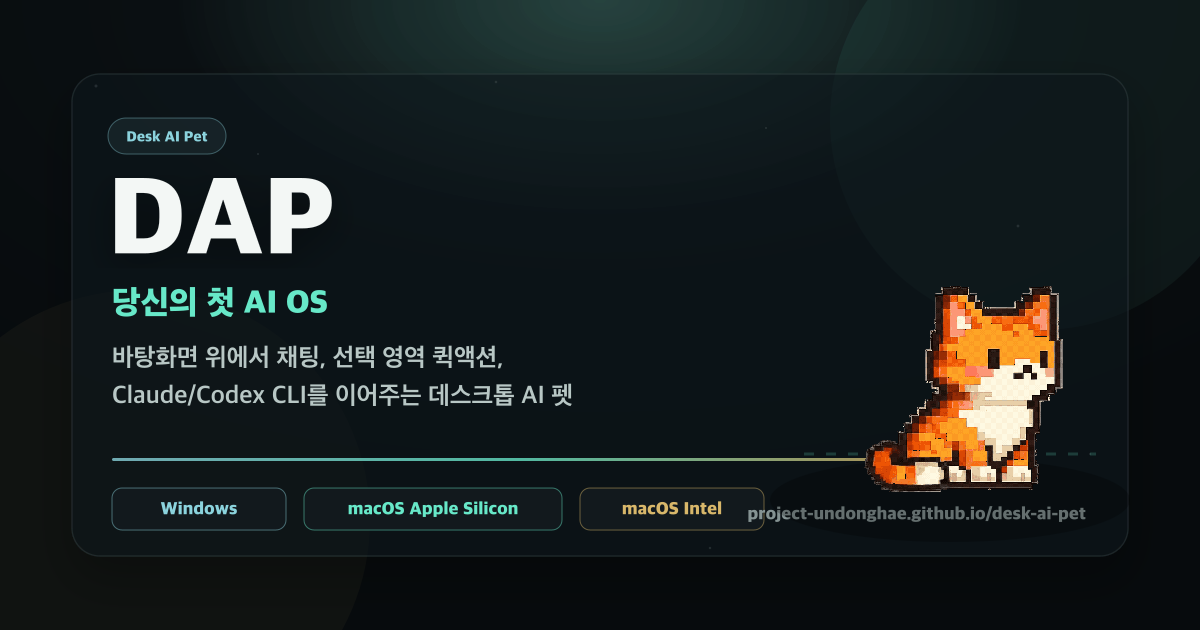
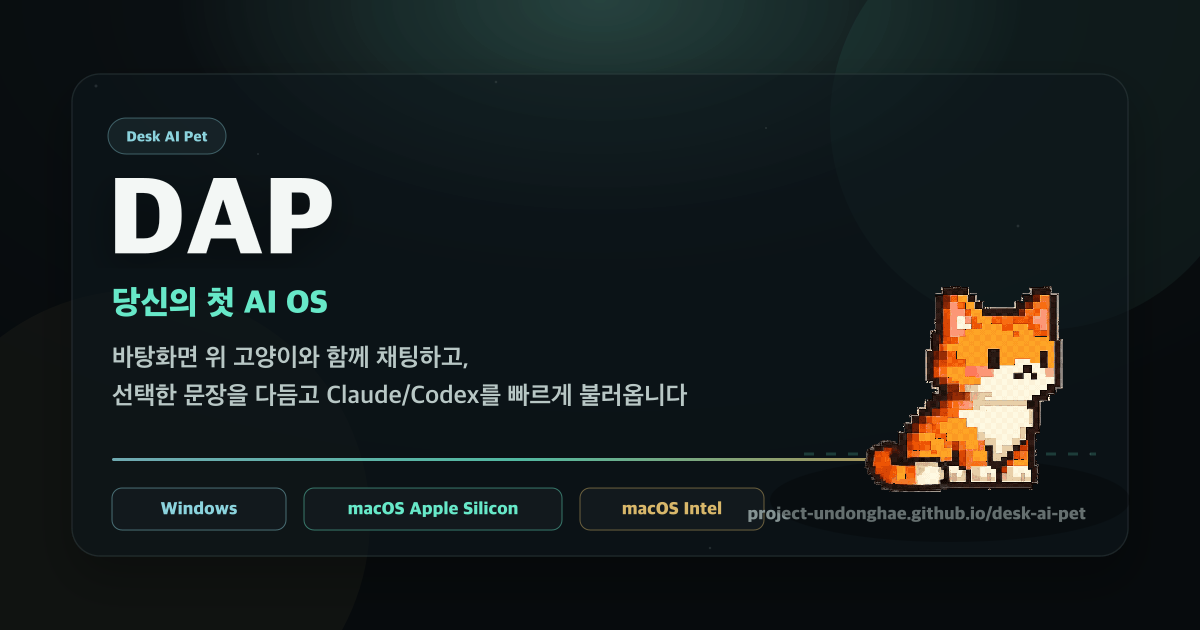
copy: make AI OS messaging more natural

Changed region(s): [[0.0925, 0.5429, 0.5858, 0.6635]]

diff --git a/index.html b/index.html
@@ -11,8 +11,8 @@
   <!-- End Google Tag Manager -->
   <meta name="viewport" content="width=device-width, initial-scale=1.0" />
   <title>DAP (Desk AI Pet) - 당신의 첫 AI OS</title>
-  <meta name="description" content="DAP은 바탕화면에 상주하는 데스크톱 AI 펫이자 Personal AI OS layer입니다. Electron 기반 앱에서 Spotlight, 채팅, 선택 영역 퀵액션, 유저 메모리, Claude/Codex CLI 연결을 제공합니다." />
-  <meta name="keywords" content="DAP, Desk AI Pet, 데스크톱 AI 펫, AI OS, Personal AI OS, desktop AI companion, Claude CLI, Codex CLI, Spotlight, 선택 영역 퀵액션, Oshi Desk" />
+  <meta name="description" content="DAP은 바탕화면 위 고양이로 시작하는 AI OS입니다. 채팅하고, 선택한 문장을 요약하거나 다듬고, Claude/Codex를 빠르게 불러올 수 있습니다." />
+  <meta name="keywords" content="DAP, Desk AI Pet, AI OS, 데스크톱 AI 펫, desktop AI pet, desktop AI companion, Claude CLI, Codex CLI, Spotlight, 선택 영역 퀵액션, Oshi Desk" />
   <meta name="robots" content="index,follow,max-image-preview:large" />
   <meta name="author" content="Project Undonghae" />
   <link rel="canonical" href="https://project-undonghae.github.io/desk-ai-pet/" />
@@ -23,7 +23,7 @@
   <meta property="og:site_name" content="Desk AI Pet" />
   <meta property="og:locale" content="ko_KR" />
   <meta property="og:title" content="DAP - 당신의 첫 AI OS" />
-  <meta property="og:description" content="바탕화면 위 AI 펫이 채팅, 선택 영역 퀵액션, Spotlight, Claude/Codex CLI를 이어줍니다. Windows와 macOS 설치 파일을 제공합니다." />
+  <meta property="og:description" content="바탕화면 위 고양이로 시작하는 AI OS. 채팅하고, 선택한 문장을 바로 요약하거나 다듬고, Claude/Codex를 빠르게 불러옵니다." />
   <meta property="og:url" content="https://project-undonghae.github.io/desk-ai-pet/" />
   <meta property="og:image" content="https://project-undonghae.github.io/desk-ai-pet/og-dap-20260703.png" />
   <meta property="og:image:width" content="1200" />
@@ -31,7 +31,7 @@
   <meta property="og:image:alt" content="DAP Desk AI Pet - 다크 teal 배경 위 고양이 캐릭터와 Windows, macOS 다운로드 플랫폼 안내" />
   <meta name="twitter:card" content="summary_large_image" />
   <meta name="twitter:title" content="DAP - 당신의 첫 AI OS" />
-  <meta name="twitter:description" content="데스크톱 AI 펫이 Spotlight, 채팅, 선택 영역 퀵액션, Claude/Codex CLI를 연결합니다. Windows/macOS 다운로드 제공." />
+  <meta name="twitter:description" content="바탕화면 위 고양이로 시작하는 AI OS. 채팅하고, 선택한 문장을 요약하거나 다듬고, Claude/Codex를 빠르게 불러옵니다." />
   <meta name="twitter:image" content="https://project-undonghae.github.io/desk-ai-pet/og-dap-20260703.png" />
   <link rel="icon" href="favicon.ico" sizes="any" />
   <link rel="icon" href="favicon-32.png" type="image/png" sizes="32x32" />
@@ -47,7 +47,7 @@
     "alternateName": "DAP",
     "applicationCategory": "UtilitiesApplication",
     "operatingSystem": "Windows, macOS",
-    "softwareVersion": "Electron migration branch",
+    "softwareVersion": "Latest public release",
     "url": "https://project-undonghae.github.io/desk-ai-pet/",
     "license": "https://opensource.org/licenses/MIT",
     "isAccessibleForFree": true,
@@ -55,7 +55,7 @@
       "@type": "Organization",
       "name": "Project Undonghae"
     },
-    "description": "DAP은 바탕화면에 상주하는 데스크톱 AI 펫이자 Personal AI OS layer입니다. Electron 기반 앱에서 Spotlight, 채팅, 선택 영역 퀵액션, 유저 메모리, Claude/Codex CLI 연결을 제공합니다.",
+    "description": "DAP은 바탕화면 위 고양이로 시작하는 AI OS입니다. 채팅하고, 선택한 문장을 요약하거나 다듬고, Claude/Codex를 빠르게 불러올 수 있습니다.",
     "sameAs": [
       "https://www.oshidesk.com/en/"
     ],
@@ -76,7 +76,7 @@
         "name": "DAP은 무엇인가요?",
         "acceptedAnswer": {
           "@type": "Answer",
-          "text": "DAP(Desk AI Pet)은 Windows와 macOS 바탕화면에 상주하는 데스크톱 AI 펫이자 Personal AI OS layer입니다."
+          "text": "DAP(Desk AI Pet)은 Windows와 macOS 바탕화면 위 고양이로 시작하는 AI OS입니다."
         }
       },
       {
@@ -84,7 +84,7 @@
         "name": "어떤 AI를 연결할 수 있나요?",
         "acceptedAnswer": {
           "@type": "Answer",
-          "text": "현재 Electron 앱은 사용자가 이미 로그인한 claude 또는 codex CLI를 headless로 호출합니다. API Key 입력 방식은 현재 제품 설명에서 제외됩니다."
+          "text": "DAP은 사용자가 이미 로그인한 Claude 또는 Codex를 연결해 채팅과 선택 영역 액션에 활용합니다. 별도의 API Key 입력 없이 시작할 수 있습니다."
         }
       },
       {
@@ -136,9 +136,9 @@
   <!-- HERO OVERLAY: 타이틀 + 다운로드 CTA -->
   <div class="hero-overlay">
     <div class="hero-overlay-inner z">
-      <p class="hero-eyebrow" data-i18n="hero_eyebrow">Personal AI OS for desktop</p>
+      <p class="hero-eyebrow" data-i18n="hero_eyebrow">YOUR FIRST AI OS</p>
       <div class="logo"><span>DAP</span><small>Desk AI Pet</small></div>
-      <p class="hero-tagline-text" data-i18n="hero_tagline">바탕화면에 상주하는 AI 펫이 채팅, 선택 영역 퀵액션, Claude/Codex CLI를 이어줍니다</p>
+      <p class="hero-tagline-text" data-i18n="hero_tagline">고양이와 함께 채팅하고, 선택한 문장을 바로 요약하거나 다듬어보세요</p>
       <div class="hero-dl-row">
         <a
           class="btn btn-w"
@@ -165,7 +165,7 @@
           <span data-i18n="download_mac_intel">macOS Intel 다운로드</span>
         </a>
       </div>
-      <p class="dl-subtitle-hero" data-i18n="download_subtitle">Windows/macOS Electron 앱 · 최신 설치 파일 제공</p>
+      <p class="dl-subtitle-hero" data-i18n="download_subtitle">Windows와 macOS용 설치 파일을 제공합니다</p>
     </div>
   </div>
 
@@ -183,9 +183,9 @@
   <p class="section-label compact" data-i18n="summary_label">DAP overview</p>
   <div class="summary-grid">
     <div>
-      <h1 id="summary-title" data-i18n="summary_title">DAP은 바탕화면에 머무는 Personal AI OS layer입니다</h1>
+      <h1 id="summary-title" data-i18n="summary_title">DAP은 바탕화면 위 고양이로 시작하는 AI OS입니다</h1>
       <p data-i18n="summary_desc">
-        DAP는 투명 오버레이 펫, Spotlight 커맨드 바, LightChat, 선택 영역 퀵액션, 유저 메모리를 하나로 묶습니다. 현재 Electron 앱은 API Key 입력 대신 사용자가 로그인한 Claude/Codex CLI를 활용하며, 작업 흐름을 방해하지 않는 조용한 데스크톱 레이어를 지향합니다.
+        DAP은 화면 위에 작은 고양이로 머물며, 채팅과 빠른 실행창, 선택 영역 액션을 한곳에 모읍니다. 문장을 선택해 요약하거나 다듬고, 필요할 때 Claude/Codex를 바로 불러올 수 있어요.
       </p>
     </div>
     <dl class="facts" aria-label="Desk AI Pet facts">
@@ -194,12 +194,12 @@
         <dd data-i18n="fact_platform_value">Windows 11 · macOS Apple Silicon · macOS Intel</dd>
       </div>
       <div>
-        <dt data-i18n="fact_ai_label">AI 연결</dt>
-        <dd data-i18n="fact_ai_value">Claude CLI · Codex CLI 구독 로그인</dd>
+        <dt data-i18n="fact_ai_label">연결</dt>
+        <dd data-i18n="fact_ai_value">로그인된 Claude · Codex 사용</dd>
       </div>
       <div>
-        <dt data-i18n="fact_license_label">런타임</dt>
-        <dd data-i18n="fact_license_value">Electron · TypeScript · Local-first settings</dd>
+        <dt data-i18n="fact_license_label">작업 방식</dt>
+        <dd data-i18n="fact_license_value">채팅 · 빠른 실행 · 선택 영역 액션</dd>
       </div>
     </dl>
   </div>
@@ -211,13 +211,13 @@
   <img class="section-cat section-cat-features" src="sprites/walk_2.png" alt="" aria-hidden="true" />
   <div class="card reveal">
     <div class="card-icon">CMD</div>
-    <h3 data-i18n="f1_title">SPOTLIGHT</h3>
-    <p data-i18n="f1_desc">Ctrl+Shift+Space로 어디서든 커맨드 바를 열고, 현재 흐름을 끊지 않고 DAP에게 요청합니다.</p>
+    <h3 data-i18n="f1_title">빠른 실행</h3>
+    <p data-i18n="f1_desc">Ctrl+Shift+Space로 어디서든 실행창을 열고, 현재 흐름을 끊지 않고 DAP에게 요청합니다.</p>
   </div>
   <div class="card reveal">
-    <div class="card-icon">CLI</div>
-    <h3 data-i18n="f2_title">SUBSCRIPTION CLI</h3>
-    <p data-i18n="f2_desc">API Key 입력 없이 로그인된 Claude 또는 Codex CLI를 headless로 호출해 기존 구독을 활용합니다.</p>
+    <div class="card-icon">AI</div>
+    <h3 data-i18n="f2_title">Claude/Codex 연결</h3>
+    <p data-i18n="f2_desc">이미 로그인한 Claude 또는 Codex를 연결해, 따로 API Key를 입력하지 않고 바로 사용할 수 있습니다.</p>
   </div>
   <div class="card reveal">
     <div class="card-icon">SEL</div>
@@ -246,15 +246,15 @@
     <div class="step reveal">
       <span class="step-num">02</span>
       <div>
-        <strong data-i18n="s2_title">구독 CLI 연결</strong>
-        <p data-i18n="s2_desc">온보딩 또는 설정에서 Claude/Codex를 선택합니다. 터미널의 claude login 또는 codex login 상태를 사용합니다.</p>
+        <strong data-i18n="s2_title">Claude/Codex 연결</strong>
+        <p data-i18n="s2_desc">온보딩 또는 설정에서 Claude/Codex를 선택합니다. 이미 로그인된 계정을 이어서 사용할 수 있습니다.</p>
       </div>
     </div>
     <div class="step reveal">
       <span class="step-num">03</span>
       <div>
         <strong data-i18n="s3_title">단축키로 즉시 호출</strong>
-        <p data-i18n="s3_desc"><code>Ctrl+Shift+Space</code>로 Spotlight, <code>Ctrl+Alt+C</code>로 채팅창을 열고 선택 영역 퀵액션을 실행합니다.</p>
+        <p data-i18n="s3_desc"><code>Ctrl+Shift+Space</code>로 빠른 실행창, <code>Ctrl+Alt+C</code>로 채팅창을 열고 선택 영역 액션을 실행합니다.</p>
       </div>
     </div>
   </div>
@@ -267,22 +267,22 @@
   <div class="faq-list">
     <details open>
       <summary data-i18n="q1_title">DAP은 무엇인가요?</summary>
-      <p data-i18n="q1_desc">DAP(Desk AI Pet)은 Windows/macOS 바탕화면에 상주하는 데스크톱 AI 펫이자 Personal AI OS layer입니다.</p>
+      <p data-i18n="q1_desc">DAP(Desk AI Pet)은 Windows/macOS 바탕화면 위에 머무는 데스크톱 AI 펫입니다.</p>
     </details>
     <details>
       <summary data-i18n="q2_title">Oshi Desk와 어떤 관계인가요?</summary>
       <p data-i18n="q2_desc">DAP는 AI와 데스크톱 펫을 결합한 기반 프로젝트입니다. Oshi Desk는 이 흐름에서 시작된 캐릭터 중심 데스크톱 펫 서비스입니다.</p>
     </details>
     <details>
-      <summary data-i18n="q3_title">API Key가 필요한가요?</summary>
-      <p data-i18n="q3_desc">현재 Electron 앱의 기본 흐름은 API Key 입력이 아니라 로그인된 Claude/Codex CLI를 사용하는 구독 연결입니다.</p>
+      <summary data-i18n="q3_title">별도 설정이 많이 필요한가요?</summary>
+      <p data-i18n="q3_desc">기본 흐름은 별도 API Key 입력이 아니라, 이미 로그인한 Claude/Codex를 연결해 사용하는 방식입니다.</p>
     </details>
   </div>
 </section>
 </main>
 
 <footer class="z">
-  <span data-i18n="footer">Built with Electron · TypeScript · Windows &amp; macOS · MIT License</span>
+  <span data-i18n="footer">DAP · Desk AI Pet · Windows &amp; macOS</span>
 </footer>
 
 <script type="module">
@@ -322,30 +322,30 @@ let textPopReady = false;
 const I18N = {
   ko: {
     meta_title: "DAP (Desk AI Pet) - 당신의 첫 AI OS",
-    meta_desc: "DAP은 바탕화면에 상주하는 데스크톱 AI 펫이자 Personal AI OS layer입니다. Electron 기반 앱에서 Spotlight, 채팅, 선택 영역 퀵액션, 유저 메모리, Claude/Codex CLI 연결을 제공합니다.",
-    hero_eyebrow: "Personal AI OS for desktop",
+    meta_desc: "DAP은 바탕화면 위 고양이로 시작하는 AI OS입니다. 채팅하고, 선택한 문장을 요약하거나 다듬고, Claude/Codex를 빠르게 불러올 수 있습니다.",
+    hero_eyebrow: "YOUR FIRST AI OS",
     hero_copy: "당신의 첫 AI OS\n바탕화면 위 고양이가 채팅과 작업 흐름을 이어줍니다",
-    hero_tagline: "바탕화면에 상주하는 AI 펫이 채팅, 선택 영역 퀵액션, Claude/Codex CLI를 이어줍니다",
+    hero_tagline: "고양이와 함께 채팅하고, 선택한 문장을 바로 요약하거나 다듬어보세요",
     stage_title: "클릭해서 반응 보기",
     download_label: "DOWNLOAD",
-    download_subtitle: "Windows/macOS Electron 앱 · 최신 설치 파일 제공",
+    download_subtitle: "Windows와 macOS용 설치 파일을 제공합니다",
     download_win: "Windows 다운로드",
     download_mac_arm: "macOS Apple Silicon 다운로드",
     download_mac_intel: "macOS Intel 다운로드",
     summary_label: "DAP overview",
-    summary_title: "DAP은 바탕화면에 머무는 Personal AI OS layer입니다",
-    summary_desc: "DAP는 투명 오버레이 펫, Spotlight 커맨드 바, LightChat, 선택 영역 퀵액션, 유저 메모리를 하나로 묶습니다. 현재 Electron 앱은 API Key 입력 대신 사용자가 로그인한 Claude/Codex CLI를 활용하며, 작업 흐름을 방해하지 않는 조용한 데스크톱 레이어를 지향합니다.",
+    summary_title: "DAP은 바탕화면 위 고양이로 시작하는 AI OS입니다",
+    summary_desc: "DAP은 화면 위에 작은 고양이로 머물며, 채팅과 빠른 실행창, 선택 영역 액션을 한곳에 모읍니다. 문장을 선택해 요약하거나 다듬고, 필요할 때 Claude/Codex를 바로 불러올 수 있어요.",
     fact_platform_label: "지원 플랫폼",
     fact_platform_value: "Windows 11 · macOS Apple Silicon · macOS Intel",
-    fact_ai_label: "AI 연결",
-    fact_ai_value: "Claude CLI · Codex CLI 구독 로그인",
-    fact_license_label: "런타임",
-    fact_license_value: "Electron · TypeScript · Local-first settings",
+    fact_ai_label: "연결",
+    fact_ai_value: "로그인된 Claude · Codex 사용",
+    fact_license_label: "작업 방식",
+    fact_license_value: "채팅 · 빠른 실행 · 선택 영역 액션",
     features_label: "Core features",
-    f1_title: "Spotlight",
-    f1_desc: "Ctrl+Shift+Space로 어디서든 커맨드 바를 열고, 현재 흐름을 끊지 않고 DAP에게 요청합니다.",
-    f2_title: "Subscription CLI",
-    f2_desc: "API Key 입력 없이 로그인된 Claude 또는 Codex CLI를 headless로 호출해 기존 구독을 활용합니다.",
+    f1_title: "빠른 실행",
+    f1_desc: "Ctrl+Shift+Space로 어디서든 실행창을 열고, 현재 흐름을 끊지 않고 DAP에게 요청합니다.",
+    f2_title: "Claude/Codex 연결",
+    f2_desc: "이미 로그인한 Claude 또는 Codex를 연결해, 따로 API Key를 입력하지 않고 바로 사용할 수 있습니다.",
     f3_title: "Quick actions",
     f3_desc: "텍스트를 선택하거나 복사하면 번역, 요약, 다듬기, 설명 같은 액션을 커서 근처에서 바로 실행합니다.",
     f4_title: "Pet interface",
@@ -353,48 +353,48 @@ const I18N = {
     how_title: "Getting started",
     s1_title: "다운로드 & 설치",
     s1_desc: "Windows, macOS Apple Silicon, macOS Intel 설치 파일 중 현재 환경에 맞는 파일을 내려받아 설치합니다.",
-    s2_title: "구독 CLI 연결",
-    s2_desc: "온보딩 또는 설정에서 Claude/Codex를 선택합니다. 터미널의 claude login 또는 codex login 상태를 사용합니다.",
+    s2_title: "Claude/Codex 연결",
+    s2_desc: "온보딩 또는 설정에서 Claude/Codex를 선택합니다. 이미 로그인된 계정을 이어서 사용할 수 있습니다.",
     s3_title: "단축키로 즉시 호출",
-    s3_desc: "<code>Ctrl+Shift+Space</code>로 Spotlight, <code>Ctrl+Alt+C</code>로 채팅창을 열고 선택 영역 퀵액션을 실행합니다.",
+    s3_desc: "<code>Ctrl+Shift+Space</code>로 빠른 실행창, <code>Ctrl+Alt+C</code>로 채팅창을 열고 선택 영역 액션을 실행합니다.",
     faq_title: "자주 묻는 질문",
     q1_title: "DAP은 무엇인가요?",
-    q1_desc: "DAP(Desk AI Pet)은 Windows/macOS 바탕화면에 상주하는 데스크톱 AI 펫이자 Personal AI OS layer입니다.",
+    q1_desc: "DAP(Desk AI Pet)은 Windows/macOS 바탕화면 위 고양이로 시작하는 AI OS입니다.",
     q2_title: "Oshi Desk와 어떤 관계인가요?",
     q2_desc: "DAP는 AI와 데스크톱 펫을 결합한 기반 프로젝트입니다. Oshi Desk는 이 흐름에서 시작된 캐릭터 중심 데스크톱 펫 서비스입니다.",
-    q3_title: "API Key가 필요한가요?",
-    q3_desc: "현재 Electron 앱의 기본 흐름은 API Key 입력이 아니라 로그인된 Claude/Codex CLI를 사용하는 구독 연결입니다.",
-    footer: "Built with Electron · TypeScript · Windows & macOS · MIT License",
+    q3_title: "별도 설정이 많이 필요한가요?",
+    q3_desc: "기본 흐름은 별도 API Key 입력이 아니라, 이미 로그인한 Claude/Codex를 연결해 사용하는 방식입니다.",
+    footer: "DAP · Desk AI Pet · Windows & macOS",
     bubble_eat: "잠깐 쉬는 중",
     bubble_meow: "여기 있어요",
     bubble_going: "이동 중",
   },
   en: {
     meta_title: "DAP (Desk AI Pet) - Your first AI OS",
-    meta_desc: "DAP is a desktop AI pet and Personal AI OS layer for Windows and macOS. The Electron app connects Spotlight, chat, selection quick actions, user memory, and Claude/Codex CLI.",
-    hero_eyebrow: "Personal AI OS for desktop",
-    hero_copy: "Your first AI OS\nA desktop pet keeps chat and work in flow",
-    hero_tagline: "A desktop AI pet for chat, selection quick actions, and Claude/Codex CLI",
+    meta_desc: "DAP is an AI OS that starts with a cat on your desktop. Chat, summarize or rewrite selected text, and call Claude/Codex when you need it.",
+    hero_eyebrow: "YOUR FIRST AI OS",
+    hero_copy: "Your first AI OS\nA desktop cat keeps chat and work in flow",
+    hero_tagline: "Chat with the cat, then summarize or rewrite selected text without leaving your screen",
     stage_title: "Click to interact",
     download_label: "DOWNLOAD",
-    download_subtitle: "Windows/macOS Electron app · latest installers available",
+    download_subtitle: "Installers are available for Windows and macOS",
     download_win: "Download for Windows",
     download_mac_arm: "Download for macOS Apple Silicon",
     download_mac_intel: "Download for macOS Intel",
     summary_label: "DAP overview",
-    summary_title: "DAP is a Personal AI OS layer that lives on your desktop",
-    summary_desc: "DAP brings together a transparent pet overlay, Spotlight command bar, LightChat, selection quick actions, and user memory. The current Electron app uses your logged-in Claude/Codex CLI instead of API keys, keeping AI help close without taking over your workflow.",
+    summary_title: "DAP is an AI OS that starts with a cat on your desktop",
+    summary_desc: "DAP stays on screen as a small cat and brings chat, quick launch, and selected-text actions together. Select a sentence to summarize or rewrite it, then call Claude/Codex whenever you need help.",
     fact_platform_label: "Platforms",
     fact_platform_value: "Windows 11 · macOS Apple Silicon · macOS Intel",
-    fact_ai_label: "AI connection",
-    fact_ai_value: "Claude CLI · Codex CLI subscription login",
-    fact_license_label: "Runtime",
-    fact_license_value: "Electron · TypeScript · local-first settings",
+    fact_ai_label: "Connection",
+    fact_ai_value: "Use your logged-in Claude · Codex",
+    fact_license_label: "Workflow",
+    fact_license_value: "Chat · quick launch · selected-text actions",
     features_label: "Core features",
-    f1_title: "Spotlight",
-    f1_desc: "Open the command bar from anywhere with Ctrl+Shift+Space and ask DAP without leaving your flow.",
-    f2_title: "Subscription CLI",
-    f2_desc: "Use your logged-in Claude or Codex CLI headlessly. No API-key setup in the current Electron flow.",
+    f1_title: "Quick launch",
+    f1_desc: "Open the launcher from anywhere with Ctrl+Shift+Space and ask DAP without leaving your flow.",
+    f2_title: "Claude/Codex connection",
+    f2_desc: "Connect Claude or Codex you already use, without starting with a separate API-key setup.",
     f3_title: "Quick actions",
     f3_desc: "Select or copy text to run translate, summarize, rewrite, explain, or ask actions near the cursor.",
     f4_title: "Pet interface",
@@ -402,18 +402,18 @@ const I18N = {
     how_title: "Getting started",
     s1_title: "Download & install",
     s1_desc: "Download the installer that matches your device: Windows, macOS Apple Silicon, or macOS Intel.",
-    s2_title: "Connect subscription CLI",
-    s2_desc: "Choose Claude or Codex in onboarding/settings. DAP uses your terminal claude login or codex login session.",
+    s2_title: "Connect Claude/Codex",
+    s2_desc: "Choose Claude or Codex in onboarding or settings, then continue with the account you already use.",
     s3_title: "Call with a hotkey",
-    s3_desc: "Use <code>Ctrl+Shift+Space</code> for Spotlight, <code>Ctrl+Alt+C</code> for chat, and selection quick actions for copied text.",
+    s3_desc: "Use <code>Ctrl+Shift+Space</code> for quick launch, <code>Ctrl+Alt+C</code> for chat, and selected-text actions when you need them.",
     faq_title: "FAQ",
     q1_title: "What is DAP?",
-    q1_desc: "DAP(Desk AI Pet) is a desktop AI pet and Personal AI OS layer for Windows and macOS.",
+    q1_desc: "DAP(Desk AI Pet) is an AI OS that starts with a cat on your Windows or macOS desktop.",
     q2_title: "How is it related to Oshi Desk?",
     q2_desc: "DAP is the base project that combined AI and desktop pets. Oshi Desk is the character-focused desktop pet service that grew from that flow.",
-    q3_title: "Do I need API keys?",
-    q3_desc: "The current Electron app uses your logged-in Claude/Codex CLI subscription flow rather than API-key setup.",
-    footer: "Built with Electron · TypeScript · Windows & macOS · MIT License",
+    q3_title: "Does it take a lot of setup?",
+    q3_desc: "The default flow connects Claude/Codex you already use, instead of starting with separate API-key setup.",
+    footer: "DAP · Desk AI Pet · Windows & macOS",
     bubble_eat: "Taking a break",
     bubble_meow: "I'm here",
     bubble_going: "Moving",
